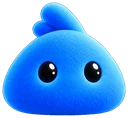
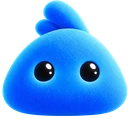
feat(nexa): dock on every screen size, close motion, outside click, new face
Owner requests 2026-10-24 (after deploy fc77a8e2):
- The dock (back-to-top + mascot) now shows on ALL screen sizes: the
  mobile hide-while-hero-visible / hide-on-scroll-down behavior is removed.
- The "AI" text badge is gone; the hover label "Tanya Nexa" sits to the
  LEFT of the mascot.
- New neutral mascot image: eyes looking straight ahead (was glancing
  right); same sizes 128/256/512.
- The chat panel animates on close too (slides down, fades, slightly
  scales — mirroring the open motion) before leaving the DOM, and a
  click/tap anywhere outside the panel and mascot closes it.

diff --git a/src/components/layout/nexa/NexaChat.tsx b/src/components/layout/nexa/NexaChat.tsx
@@ -21,6 +21,8 @@ const moodSrcSet = (mood: NexaMood): string => `${moodFile(mood, 128)} 128w, ${m
 
 /** Jeda minimum "Nexa sedang mengetik" sebelum balasan tampil (ms), juga untuk jawaban bawaan yang instan. */
 export const NEXA_REPLY_DELAY = 700;
+/** Lama animasi panel menutup (ms) sebelum dilepas dari DOM; = duration-200 di kelas panel. */
+const CLOSE_MOTION = 200;
 /** Riwayat yang dikirim ke nexa_chat (= NEXA_MAX_MESSAGES di backend/modules/nexa.php). */
 const HISTORY_LIMIT = 12;
 /** Panjang maksimum (code point) per pesan yang dikirim (= NEXA_MAX_USER_CHARS / NEXA_MAX_ASSISTANT_CHARS di backend). */
@@ -272,6 +274,11 @@ export const NexaChat: React.FC<NexaChatProps> = ({ whatsappHref, open, onOpenCh
   const [typing, setTyping] = useState(false);
   const [draft, setDraft] = useState('');
   const [listening, setListening] = useState(false);
+  // Panel sedang beranimasi menutup (melorot & memudar dulu, baru dilepas dari DOM)
+  const [closing, setClosing] = useState(false);
+  const closingRef = useRef(false);
+  const closeTimer = useRef(0);
+  const requestCloseRef = useRef<(focusLauncher: boolean) => void>(() => {});
   // Pesan galat input suara (tampil di bawah form & dibacakan lewat role=status)
   const [micNote, setMicNote] = useState('');
   // Maskot tombol menyapa saat disorot/difokus; selebihnya hidup sendiri (berkedip dkk. tiap beberapa detik)
@@ -296,6 +303,7 @@ export const NexaChat: React.FC<NexaChatProps> = ({ whatsappHref, open, onOpenCh
     return () => {
       alive.current = false;
       recognitionRef.current?.abort();
+      window.clearTimeout(closeTimer.current);
     };
   }, []);
 
@@ -308,12 +316,21 @@ export const NexaChat: React.FC<NexaChatProps> = ({ whatsappHref, open, onOpenCh
       if (event.key !== 'Escape' || event.defaultPrevented) return;
       const active = document.activeElement;
       if (!panelRef.current?.contains(active) && active !== launcherRef.current) return;
-      onOpenChange(false);
-      launcherRef.current?.focus();
+      requestCloseRef.current(true);
+    };
+    // Klik/sentuh di luar panel & tombol maskot menutup chat (pemilik 2026-10-24); fokus tetap di yang diklik
+    const onPointerDown = (event: PointerEvent) => {
+      const target = event.target as Node;
+      if (panelRef.current?.contains(target) || launcherRef.current?.contains(target)) return;
+      requestCloseRef.current(false);
     };
     document.addEventListener('keydown', onKey);
-    return () => document.removeEventListener('keydown', onKey);
-  }, [open, onOpenChange]);
+    document.addEventListener('pointerdown', onPointerDown);
+    return () => {
+      document.removeEventListener('keydown', onKey);
+      document.removeEventListener('pointerdown', onPointerDown);
+    };
+  }, [open]);
 
   // Panel ditutup: hentikan rekaman suara yang masih berjalan
   useEffect(() => {
@@ -332,10 +349,23 @@ export const NexaChat: React.FC<NexaChatProps> = ({ whatsappHref, open, onOpenCh
     log.scrollTop = reply ? Math.max(0, reply.offsetTop - 16) : log.scrollHeight;
   }, [open, messages, typing]);
 
-  const close = () => {
-    onOpenChange(false);
-    launcherRef.current?.focus();
+  /** Tutup dengan animasi (pemilik 2026-10-24): kelas `closing` dipasang dulu, panel dilepas setelah CLOSE_MOTION. */
+  const requestClose = (focusLauncher: boolean) => {
+    if (closingRef.current) return;
+    closingRef.current = true;
+    setClosing(true);
+    closeTimer.current = window.setTimeout(() => {
+      closingRef.current = false;
+      if (!alive.current) return;
+      setClosing(false);
+      onOpenChange(false);
+      if (focusLauncher) launcherRef.current?.focus();
+    }, CLOSE_MOTION);
   };
+  const close = () => requestClose(true);
+  useEffect(() => {
+    requestCloseRef.current = requestClose;
+  });
 
   /** Tampilkan pertanyaan, lalu balasan yang dihasilkan `reply` (minimal NEXA_REPLY_DELAY "sedang mengetik"). */
   const send = (text: string, reply: () => Promise<NexaAnswer>) => {
@@ -465,7 +495,9 @@ export const NexaChat: React.FC<NexaChatProps> = ({ whatsappHref, open, onOpenCh
             // Di atas dok (48/56px + jarak bawah), di bawah navbar. HP: hampir selebar layar; desktop: 460 px, tinggi
             // tetap maks. 740 px (pemilik 2026-10-24: lebih tinggi & luas). Layar sangat pendek (HP mendatar, zoom besar):
             // log tetap minimal 8rem dan panel sendiri yang bergulir
-            className="fixed inset-x-3 bottom-[calc(max(16px,calc(env(safe-area-inset-bottom)+8px))+3.75rem)] z-40 flex h-[min(620px,calc(100svh-var(--nav-offset)-6rem))] custom-scrollbar flex-col overflow-y-auto overscroll-contain rounded-[28px] bg-surface text-left shadow-float ring-1 ring-inset ring-line/70 transition-[opacity,translate] duration-200 ease-calm starting:translate-y-2 starting:opacity-0 motion-reduce:transition-none sm:inset-x-auto sm:bottom-[6.25rem] sm:right-8 sm:h-[min(740px,calc(100svh-var(--nav-offset)-7.25rem))] sm:w-[440px] lg:w-[460px]"
+            className={`fixed inset-x-3 bottom-[calc(max(16px,calc(env(safe-area-inset-bottom)+8px))+3.75rem)] z-40 flex h-[min(620px,calc(100svh-var(--nav-offset)-6rem))] custom-scrollbar flex-col overflow-y-auto overscroll-contain rounded-[28px] bg-surface text-left shadow-float ring-1 ring-inset ring-line/70 transition-[opacity,translate,scale] duration-200 ease-calm starting:translate-y-3 starting:scale-[0.98] starting:opacity-0 motion-reduce:transition-none sm:inset-x-auto sm:bottom-[6.25rem] sm:right-8 sm:h-[min(740px,calc(100svh-var(--nav-offset)-7.25rem))] sm:w-[440px] lg:w-[460px] ${
+              closing ? 'pointer-events-none translate-y-3 scale-[0.98] opacity-0' : ''
+            }`}
           >
             {/* Kepala ringkas (pemilik 2026-10-24: lebih kecil) */}
             <header className="flex shrink-0 items-center justify-between gap-3 px-6 pb-1 pt-3.5 sm:px-7 sm:pt-4">
@@ -500,10 +532,10 @@ export const NexaChat: React.FC<NexaChatProps> = ({ whatsappHref, open, onOpenCh
                   mood={message.mood}
                   live={!typing && index === messages.length - 1}
                 >
-                  {message.from === 'nexa' ? <RichText text={message.text} onNavigate={() => onOpenChange(false)} /> : message.text}
+                  {message.from === 'nexa' ? <RichText text={message.text} onNavigate={() => requestClose(false)} /> : message.text}
                   {message.action && (
                     <span className="block">
-                      <ActionLink action={message.action} onNavigate={() => onOpenChange(false)} />
+                      <ActionLink action={message.action} onNavigate={() => requestClose(false)} />
                     </span>
                   )}
                 </Bubble>
@@ -593,7 +625,7 @@ export const NexaChat: React.FC<NexaChatProps> = ({ whatsappHref, open, onOpenCh
       <button
         ref={launcherRef}
         type="button"
-        onClick={() => onOpenChange(!open)}
+        onClick={() => (open ? requestClose(true) : onOpenChange(true))}
         aria-label={open ? 'Tutup chat Nexa' : 'Tanya Nexa, asisten AI'}
         aria-expanded={open}
         aria-controls={open ? panelId : undefined}
@@ -606,25 +638,18 @@ export const NexaChat: React.FC<NexaChatProps> = ({ whatsappHref, open, onOpenCh
         className="group relative flex h-12 w-12 items-center justify-center rounded-full transition-[translate] duration-300 ease-calm motion-safe:hover:-translate-y-0.5 sm:h-14 sm:w-14"
       >
         {!open && (
-          <span className="pointer-events-none absolute bottom-full right-0 mb-3 hidden whitespace-nowrap rounded-full bg-surface px-3.5 py-2 text-[13px] font-semibold text-fg opacity-0 shadow-float ring-1 ring-inset ring-line transition-opacity group-hover:opacity-100 sm:block">
+          // Label di samping kiri maskot (pemilik 2026-10-24), hanya saat disorot (desktop)
+          <span className="pointer-events-none absolute right-full top-1/2 mr-3 hidden -translate-y-1/2 whitespace-nowrap rounded-full bg-surface px-3.5 py-2 text-[13px] font-semibold text-fg opacity-0 shadow-float ring-1 ring-inset ring-line transition-opacity group-hover:opacity-100 sm:block">
             Tanya Nexa
           </span>
         )}
+        {/* Hanya gambar maskot: lencana teks "AI" dihapus (pemilik 2026-10-24) */}
         <NexaAvatar
           className="h-12 w-12 sm:h-14 sm:w-14"
           sizes="(min-width: 640px) 56px, 48px"
           mood={greetingLauncher ? 'ceria' : idleMood}
           animate
         />
-        {/* Lencana "AI": lingkaran hitam kecil, teks putih, tanpa garis, di kiri agak ke bawah (pemilik 2026-10-24) */}
-        {!open && (
-          <span
-            className="absolute -left-0.5 top-1.5 flex h-[18px] w-[18px] items-center justify-center rounded-full bg-black text-[8px] font-bold leading-none text-white sm:top-2 sm:h-5 sm:w-5 sm:text-[9px]"
-            aria-hidden
-          >
-            AI
-          </span>
-        )}
       </button>
     </>
   );

diff --git a/src/components/layout/FloatingWhatsApp.tsx b/src/components/layout/FloatingWhatsApp.tsx
@@ -4,10 +4,6 @@ import { NexaChat } from './nexa/NexaChat';
 
 interface FloatingWhatsAppProps {
   href: string;
-  /**
-   * id elemen (mis. hero `beranda`) yang tidak boleh tertutup: di HP tombol disembunyikan selama elemen ini terlihat.
-   */
-  hideOverId?: string;
   /** Tombol "ke atas" kaca buram di atas maskot, tampil setelah menggulir (beranda, pemilik 2026-10-24). */
   backToTop?: boolean;
 }
@@ -15,62 +11,28 @@ interface FloatingWhatsAppProps {
 /** Jarak gulir (px) sebelum tombol "ke atas" tampil. */
 const TOP_AFTER = 480;
 
-/** Jarak gulir minimal (px) sebelum arah gulir dianggap berubah, agar tombol tidak berkedip karena getaran jari. */
-const SCROLL_SLOP = 8;
-
 /**
  * Tombol melayang kanan bawah: maskot Nexa (nexa/NexaChat; 48px HP, 56px desktop, aman dari notch/home bar). Tombol
  * WhatsApp melayang dihapus (pemilik 2026-10-24): jalur WhatsApp kini lewat jawaban Nexa, footer, dan halaman kontak;
- * `href`-nya tetap dipakai chat. Di HP (< 640px) tombol tidak boleh menutupi konten (mobile-responsive §8): disembunyikan
- * selama `hideOverId` terlihat dan saat menggulir ke bawah, lalu muncul lagi saat menggulir ke atas; tidak pernah selama
- * chat Nexa terbuka. Desktop: selalu tampil.
+ * `href`-nya tetap dipakai chat. Dok selalu tampil di semua ukuran layar (pemilik 2026-10-24; logika sembunyi di HP
+ * saat hero terlihat / menggulir ke bawah dihapus).
  */
-export const FloatingWhatsApp: React.FC<FloatingWhatsAppProps> = ({ href, hideOverId, backToTop = false }) => {
-  // Mulai tersembunyi bila ada elemen yang dijaga (hero di layar pertama), agar tombol tidak sempat berkedip di HP
-  const [hidden, setHidden] = useState(Boolean(hideOverId));
+export const FloatingWhatsApp: React.FC<FloatingWhatsAppProps> = ({ href, backToTop = false }) => {
   const [chatOpen, setChatOpen] = useState(false);
   const [showTop, setShowTop] = useState(false);
-  // Menutup chat mengembalikan fokus ke tombol Nexa: dok harus terlihat saat itu (di HP bisa saja sudah "tersembunyi"
-  // karena menggulir selama chat terbuka); gulir berikutnya menghitung ulang.
-  const changeChatOpen = useCallback((next: boolean) => {
-    setChatOpen(next);
-    if (!next) setHidden(false);
-  }, []);
+  const changeChatOpen = useCallback((next: boolean) => setChatOpen(next), []);
 
   useEffect(() => {
-    let overVisible = false;
-    let scrollingDown = false;
-    let lastY = window.scrollY;
-    const update = () => setHidden(overVisible || scrollingDown);
-
-    const target = hideOverId ? document.getElementById(hideOverId) : null;
-    const io =
-      target && typeof IntersectionObserver !== 'undefined'
-        ? new IntersectionObserver(([entry]) => {
-            overVisible = Boolean(entry?.isIntersecting);
-            update();
-          })
-        : null;
-    // IntersectionObserver selalu memanggil callback sekali setelah observe, jadi status awal ikut terhitung
-    if (io && target) io.observe(target);
-
+    if (!backToTop) return undefined;
     // Posisi awal (halaman dibuka sudah tergulir, mis. reload): dihitung di frame berikutnya, bukan saat render
-    const raf = backToTop ? requestAnimationFrame(() => setShowTop(window.scrollY > TOP_AFTER)) : 0;
-    const onScroll = () => {
-      const y = window.scrollY;
-      if (backToTop) setShowTop(y > TOP_AFTER);
-      if (Math.abs(y - lastY) < SCROLL_SLOP) return;
-      scrollingDown = y > lastY;
-      lastY = y;
-      update();
-    };
+    const raf = requestAnimationFrame(() => setShowTop(window.scrollY > TOP_AFTER));
+    const onScroll = () => setShowTop(window.scrollY > TOP_AFTER);
     window.addEventListener('scroll', onScroll, { passive: true });
     return () => {
       cancelAnimationFrame(raf);
-      io?.disconnect();
       window.removeEventListener('scroll', onScroll);
     };
-  }, [hideOverId, backToTop]);
+  }, [backToTop]);
 
   const scrollToTop = () => {
     const reduce = window.matchMedia?.('(prefers-reduced-motion: reduce)')?.matches ?? false;
@@ -79,9 +41,7 @@ export const FloatingWhatsApp: React.FC<FloatingWhatsAppProps> = ({ href, hideOv
 
   return (
     <div
-      className={`fixed bottom-[max(16px,calc(env(safe-area-inset-bottom)+8px))] right-[max(16px,env(safe-area-inset-right))] z-40 flex flex-col items-center gap-3 transition-[translate,opacity,visibility] duration-300 ease-calm motion-reduce:transition-none sm:bottom-8 sm:right-8 ${
-        hidden && !chatOpen ? 'max-sm:invisible max-sm:translate-y-24 max-sm:opacity-0' : ''
-      }`}
+      className="fixed bottom-[max(16px,calc(env(safe-area-inset-bottom)+8px))] right-[max(16px,env(safe-area-inset-right))] z-40 flex flex-col items-center gap-3 sm:bottom-8 sm:right-8"
     >
       {/* Ke atas: kaca cair (gradasi putih tembus + blur latar), tampil setelah menggulir; tidak saat chat terbuka */}
       {backToTop && showTop && !chatOpen && (

diff --git a/src/components/layout/__tests__/chrome.test.tsx b/src/components/layout/__tests__/chrome.test.tsx
@@ -276,17 +276,18 @@ describe('Footer', () => {
 });
 
 describe('FloatingWhatsApp', () => {
-  it('dok hanya berisi tombol Nexa (WhatsApp melayang dihapus); di HP mulai tersembunyi bila menjaga hero', () => {
-    const { unmount } = renderAt(<FloatingWhatsApp href="https://wa.me/6285188009152" hideOverId="beranda" />);
+  it('dok hanya tombol Nexa (WhatsApp melayang dihapus), selalu tampil di semua ukuran, tanpa lencana "AI"', () => {
+    renderAt(<FloatingWhatsApp href="https://wa.me/6285188009152" />);
     const launcher = screen.getByRole('button', { name: 'Tanya Nexa, asisten AI' });
     const dock = launcher.parentElement as HTMLElement;
-    expect(dock.className).toContain('max-sm:invisible');
-    // Tombol WhatsApp melayang dihapus (pemilik 2026-10-24); jalur WhatsApp lewat jawaban Nexa & footer
+    // Tidak pernah disembunyikan di HP (pemilik 2026-10-24: tampil di semua ukuran)
+    expect(dock.className).not.toMatch(/max-sm:invisible|invisible/);
+    // Tombol WhatsApp melayang dihapus; jalur WhatsApp lewat jawaban Nexa & footer. Lencana teks "AI" juga dihapus
     expect(screen.queryByRole('link', { name: 'Chat WhatsApp' })).toBeNull();
-    unmount();
-    renderAt(<FloatingWhatsApp href="https://wa.me/6285188009152" />);
-    const always = screen.getByRole('button', { name: 'Tanya Nexa, asisten AI' }).parentElement as HTMLElement;
-    expect(always.className).not.toContain('max-sm:invisible');
+    expect(launcher.textContent).not.toContain('AI');
+    // Label "Tanya Nexa" di samping kiri maskot (right-full)
+    const label = [...launcher.querySelectorAll('span')].find((el) => el.textContent === 'Tanya Nexa') as HTMLElement;
+    expect(label.className).toContain('right-full');
   });
 
   it('tombol "Kembali ke atas" (beranda): muncul setelah menggulir, kaca buram, gulir halus ke atas', async () => {
@@ -391,8 +392,16 @@ describe('Nexa AI', () => {
 
     within(panel).getByRole('textbox', { name: 'Tulis pesan untuk Nexa' }).focus();
     fireEvent.keyDown(document.activeElement as HTMLElement, { key: 'Escape' });
-    expect(screen.queryByRole('dialog')).toBeNull();
+    // Menutup beranimasi dulu (kelas closing), lalu dilepas dari DOM dan fokus kembali
+    expect(panel.className).toContain('opacity-0');
+    await waitFor(() => expect(screen.queryByRole('dialog')).toBeNull());
     expect(document.activeElement).toBe(launcher);
+
+    // Dibuka lagi: klik/sentuh di luar panel menutupnya (fokus tidak direbut kembali)
+    fireEvent.click(launcher);
+    expect(await screen.findByRole('dialog', { name: 'Tanya Nexa AI' })).toBeInTheDocument();
+    fireEvent.pointerDown(document.body);
+    await waitFor(() => expect(screen.queryByRole('dialog')).toBeNull());
   });
 
   it('topik cepat dijawab teks tetap tanpa AI; AI belum aktif -> jawaban bawaan dari tanya jawab situs', async () => {
@@ -467,7 +476,7 @@ describe('Nexa AI', () => {
 
     // Klik tautan internal menutup panel (pengunjung pindah halaman)
     fireEvent.click(toTemplate);
-    expect(screen.queryByRole('dialog')).toBeNull();
+    await waitFor(() => expect(screen.queryByRole('dialog')).toBeNull());
 
     status = 429;
     fireEvent.click(screen.getByRole('button', { name: 'Tanya Nexa, asisten AI' }));

diff --git a/src/App.tsx b/src/App.tsx
@@ -71,22 +71,14 @@ const WA_GREETING = 'Halo Admin, saya tertarik dengan template website atau jasa
 const NEXA_EXCLUDED = ['/demo', '/situs', '/akun', '/login', '/auth', '/admin', '/masuk', '/daftar'];
 
 /**
- * Chat Nexa AI melayang di semua halaman situs utama (pemilik 2026-10-24; tombol WhatsApp melayang dihapus, jalur
- * WhatsApp lewat jawaban Nexa & footer). Beranda juga mendapat tombol "ke atas" dan menyembunyikan dok selama hero
- * terlihat (hideOverId).
+ * Chat Nexa AI melayang di semua halaman situs utama, selalu tampil di semua ukuran layar (pemilik 2026-10-24; tombol
+ * WhatsApp melayang dihapus, jalur WhatsApp lewat jawaban Nexa & footer). Beranda juga mendapat tombol "ke atas".
  */
 function FloatingNexa() {
   const { pathname } = useLocation();
   const { settings } = useSiteSettings();
   if (NEXA_EXCLUDED.some((prefix) => pathname === prefix || pathname.startsWith(`${prefix}/`))) return null;
-  const home = pathname === '/';
-  return (
-    <FloatingWhatsApp
-      href={whatsappUrl(getWhatsappNumber(settings), WA_GREETING)}
-      hideOverId={home ? 'beranda' : undefined}
-      backToTop={home}
-    />
-  );
+  return <FloatingWhatsApp href={whatsappUrl(getWhatsappNumber(settings), WA_GREETING)} backToTop={pathname === '/'} />;
 }
 
 function App() {

diff --git a/src/pages/public/Home.tsx b/src/pages/public/Home.tsx
@@ -87,7 +87,7 @@ export default function Home() {
       {/* Setelah Footer: lapisan fixed (tampilan sama), tetapi titik section di akhir urutan Tab, bukan sebelum logo/menu */}
       <SectionChrome sections={chrome} />
 
-      {/* Chat Nexa melayang dipasang global di App (FloatingNexa): di beranda disembunyikan selama hero terlihat */}
+      {/* Chat Nexa melayang dipasang global di App (FloatingNexa), selalu tampil di semua ukuran layar */}
     </div>
   );
 }
